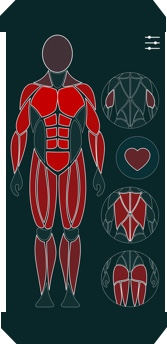
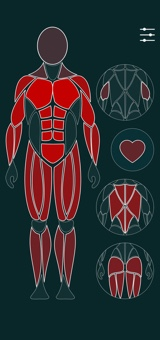
left and right mobile screen styled

diff --git a/src/Projects/Project/index.js b/src/Projects/Project/index.js
@@ -16,7 +16,20 @@ class ProjectComponent extends React.Component {
         let out = []
 
         if (this.props.data.mobile) {
+            out.push(<div className='screen1' key='screen1'
+                style={{
+                    background: 'url(' + this.props.data.screens[0] + ')',
+                    backgroundSize: '100%'
+                }}>
+            </div>)
+            out.push(<div className='screen2' key='screen2'
+                style={{
+                    background: 'url(' + this.props.data.screens[1] + ')',
+                    backgroundSize: '100%'
+                }}>
+            </div>)
             out.push(<img src={phone} className='mobile1' key='mobile1'/>)
+
             out.push(<img src={phone} className='mobile2' key='mobile2'/>)
         } else {
             out.push(<img src={desktop} className='desktop' key='desktop'/>)

diff --git a/src/Projects/Project/index.scss b/src/Projects/Project/index.scss
@@ -29,13 +29,29 @@
             grid-area: mobile2;
         }
 
+        .screen1,
+        .screen2 {
+            grid-area: mobile1;
+            width: 160px;
+            height: 340px;
+            justify-self: end;
+            margin: 20px 22px;
+        }
+
+        .screen2 {
+            grid-area: mobile2;
+            justify-self: auto;
+            margin: 20px 12px;
+        }
+
         &.right {
             grid-template-columns: 50px 125px 1fr 260px 260px 30px;
             grid-template-areas:
             '. title title mobile1 mobile2 .'
             '. infoQ infoA mobile1 mobile2 .';
         }
-    }
+
+    } // &.mobile
 
     .desktop {
         grid-area: desktop;

diff --git a/src/app/constants.js b/src/app/constants.js
@@ -67,7 +67,7 @@ var constants = {
             screens: [gymapScreen1, gymapScreen2],
             icon: gymapIcon,
             description: 'I was doing Qutomated Quality testing for Android & iOS platforms across mobile and tablet devices.',
-            infoA: ['QA Engineer','JavaScript, Selenium, Xcode', 2016, 'San Jose, CA', 'https://gymap.me'],
+            infoA: ['QA Engineer','JavaScript, Selenium, Xcode', 2016, 'San Jose, CA', 'http://gymap.me'],
             mobile: true,
             right: true
         },

diff --git a/src/Projects/index.js b/src/Projects/index.js
@@ -12,8 +12,9 @@ class ProjectsComponent extends React.Component {
         return (
             <div className='ProjectsComponent'>
                 <Ribbon title='Projects'/>
-                {'/* iterating through each project */'}
+
                 {constants.projects.map((project, i)=>(
+                    // iterating through each project
                     <Project
                         key={i}
                         data={project}/>
